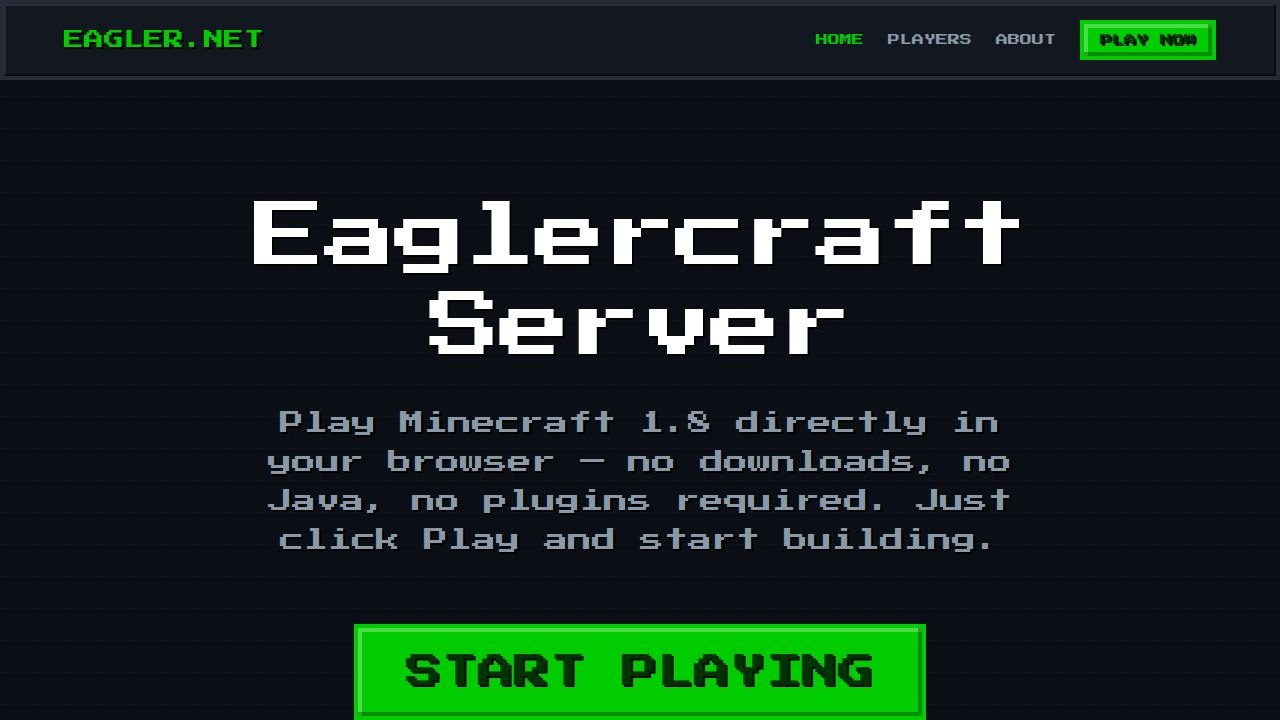
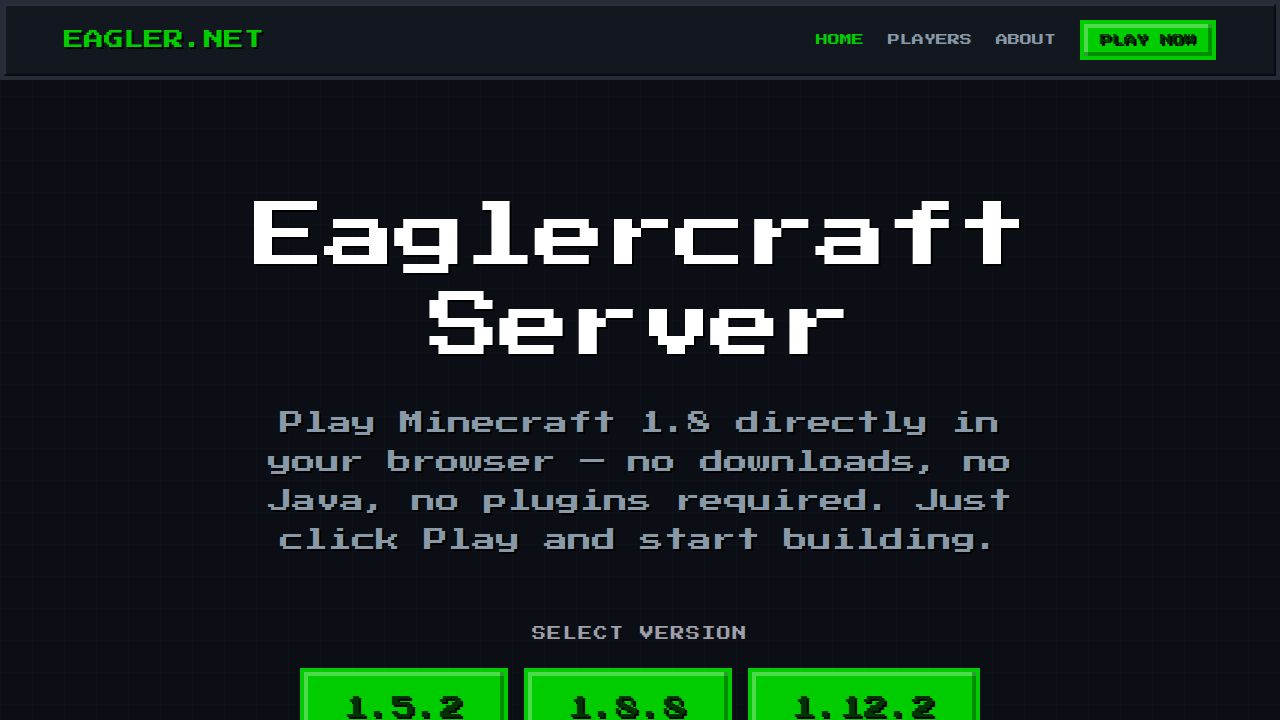
Saved progress at the end of the loop
Replit-Commit-Author: Agent
Replit-Commit-Session-Id: 3f9f8210-9dfa-4a9e-a052-992c6cf33b81
Replit-Commit-Checkpoint-Type: full_checkpoint
Replit-Commit-Event-Id: db9e799c-e870-4ebb-9913-1aabb9bb62b0
Replit-Commit-Screenshot-Url: https://storage.googleapis.com/screenshot-production-us-central1/9aba6c28-4f9b-488b-904f-5fb87e534dc5/3f9f8210-9dfa-4a9e-a052-992c6cf33b81/kcj15w9
Replit-Helium-Checkpoint-Created: true

Changed region(s): [[0.2188, 0.8556, 0.7812, 1.0]]

diff --git a/artifacts/eaglercraft/src/pages/home.tsx b/artifacts/eaglercraft/src/pages/home.tsx
@@ -1,13 +1,21 @@
 import { useGetServerStatus, getGetServerStatusQueryKey, useGetServerConfig, getGetServerConfigQueryKey } from "@workspace/api-client-react";
-import { Link } from "wouter";
+import { Link, useLocation } from "wouter";
 import { formatUptime } from "../lib/format";
 import { Server, Users, Activity, Clock } from "lucide-react";
 
+const VERSIONS = [
+  { id: "1.5.2", label: "1.5.2", client: "/client_1.5.2.html" },
+  { id: "1.8.8", label: "1.8.8", client: "/client.html" },
+  { id: "1.12.2", label: "1.12.2", client: "/client_1.12.2.html" },
+];
+
 export default function Home() {
+  const [, navigate] = useLocation();
+
   const { data: status, isLoading: statusLoading } = useGetServerStatus({
     query: {
       queryKey: getGetServerStatusQueryKey(),
-      refetchInterval: 30000, // auto-refresh every 30s
+      refetchInterval: 30000,
     }
   });
 
@@ -16,6 +24,10 @@ export default function Home() {
       queryKey: getGetServerConfigQueryKey()
     }
   });
+
+  function handlePlay(version: typeof VERSIONS[number]) {
+    navigate(`/play?version=${version.id}`);
+  }
 
   return (
     <div className="space-y-16 animate-in fade-in zoom-in duration-500">
@@ -29,13 +41,19 @@ export default function Home() {
           {config?.description || "THE ULTIMATE BROWSER-BASED SURVIVAL EXPERIENCE."}
         </p>
 
-        <div className="pt-8">
-          <Link 
-            href="/play" 
-            className="inline-block pixel-border-primary bg-primary text-primary-foreground font-pixel text-2xl md:text-4xl px-12 py-6 hover:bg-white transition-all transform hover:scale-105 pixel-text-shadow !text-primary-foreground shadow-2xl"
-          >
-            START PLAYING
-          </Link>
+        <div className="pt-8 space-y-6">
+          <p className="font-pixel text-sm text-zinc-400 uppercase tracking-widest">SELECT VERSION</p>
+          <div className="flex flex-wrap justify-center gap-4">
+            {VERSIONS.map((v) => (
+              <button
+                key={v.id}
+                onClick={() => handlePlay(v)}
+                className="pixel-border-primary bg-primary text-primary-foreground font-pixel text-xl md:text-2xl px-10 py-5 hover:bg-white transition-all transform hover:scale-105 pixel-text-shadow !text-primary-foreground shadow-2xl cursor-pointer"
+              >
+                {v.label}
+              </button>
+            ))}
+          </div>
         </div>
       </section>
 

diff --git a/artifacts/eaglercraft/src/pages/play.tsx b/artifacts/eaglercraft/src/pages/play.tsx
@@ -1,13 +1,16 @@
-import { useGetServerConfig, getGetServerConfigQueryKey } from "@workspace/api-client-react";
 import { Link } from "wouter";
 import { ArrowLeft } from "lucide-react";
 
-export default function Play() {
-  const { data: config } = useGetServerConfig({
-    query: { queryKey: getGetServerConfigQueryKey() }
-  });
+const VERSION_CLIENTS: Record<string, { label: string; client: string }> = {
+  "1.5.2": { label: "1.5.2", client: "/client_1.5.2.html" },
+  "1.8.8": { label: "1.8.8", client: "/client.html" },
+  "1.12.2": { label: "1.12.2", client: "/client_1.12.2.html" },
+};
 
-  const clientUrl = config?.eaglercraftClientUrl || "/client.html";
+export default function Play() {
+  const params = new URLSearchParams(window.location.search);
+  const versionId = params.get("version") || "1.8.8";
+  const version = VERSION_CLIENTS[versionId] || VERSION_CLIENTS["1.8.8"];
 
   return (
     <div className="fixed inset-0 w-full h-full bg-black z-50 flex flex-col">
@@ -17,14 +20,14 @@ export default function Play() {
           RETURN TO PORTAL
         </Link>
         <div className="font-pixel text-[10px] text-zinc-500">
-          EAGLERCRAFT CLIENT {config?.websocketUrl ? `- CONNECTING TO ${config.websocketUrl}` : ""}
+          EAGLERCRAFT {version.label}
         </div>
       </div>
       <div className="flex-1 w-full bg-black">
-        <iframe 
-          src={clientUrl}
+        <iframe
+          src={version.client}
           className="w-full h-full border-0"
-          title="Eaglercraft Client"
+          title={`Eaglercraft ${version.label}`}
           allow="fullscreen; autoplay; clipboard-write; encrypted-media; picture-in-picture"
         />
       </div>